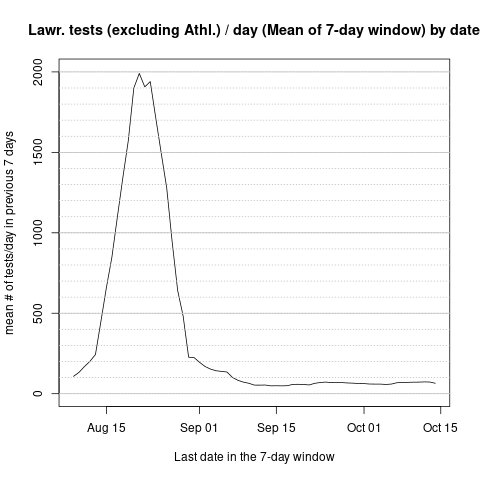
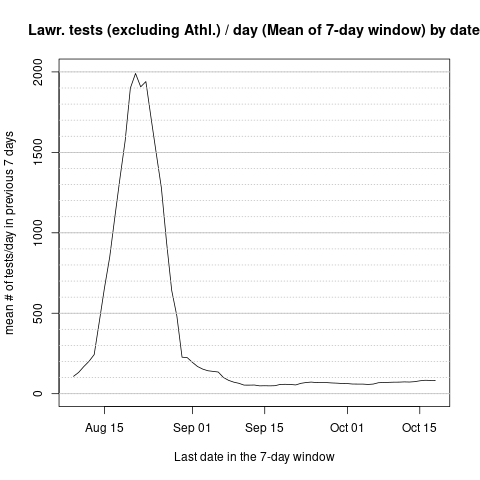
up to Oct 18

diff --git a/README.md b/README.md
@@ -35,6 +35,8 @@ Currently the reports are for the periods:
    * [Sept 28 to Oct 04](https://protect.ku.edu/sites/protect/files/documents/Dashboard/COVID-19_Dashboard_Sept28toOct4.pdf)
    * [Oct 01 to Oct 07](https://protect.ku.edu/sites/protect/files/documents/Dashboard/COVID-19_Dashboard_Oct1toOct7.pdf)
    * [Oct 05 to Oct 11](https://protect.ku.edu/sites/protect/files/documents/Dashboard/COVID-19_Dashboard_Oct5toOct11.pdf)
+   * [Oct 08 to Oct 14](https://protect.ku.edu/sites/protect/files/documents/Dashboard/COVID-19_Dashboa_Oct8toOct14.pdf)
+   * [Oct 12 to Oct 18](https://protect.ku.edu/sites/protect/files/documents/Dashboard/COVID-19_Dashboard_Oct12toOct18.pdf)
  
 None of the reports trace the test-positivity percentage over time, which I was interested in.
 For a time-series of test-positivity rates to be easily interpreted as a proxy of the campus-wide prevalence of SARS-CoV-2 infections, it is important to either have detailed knowledge of the biases associated with targeted testing, or to focus on the entry tests and "randomized prevalence testing."
